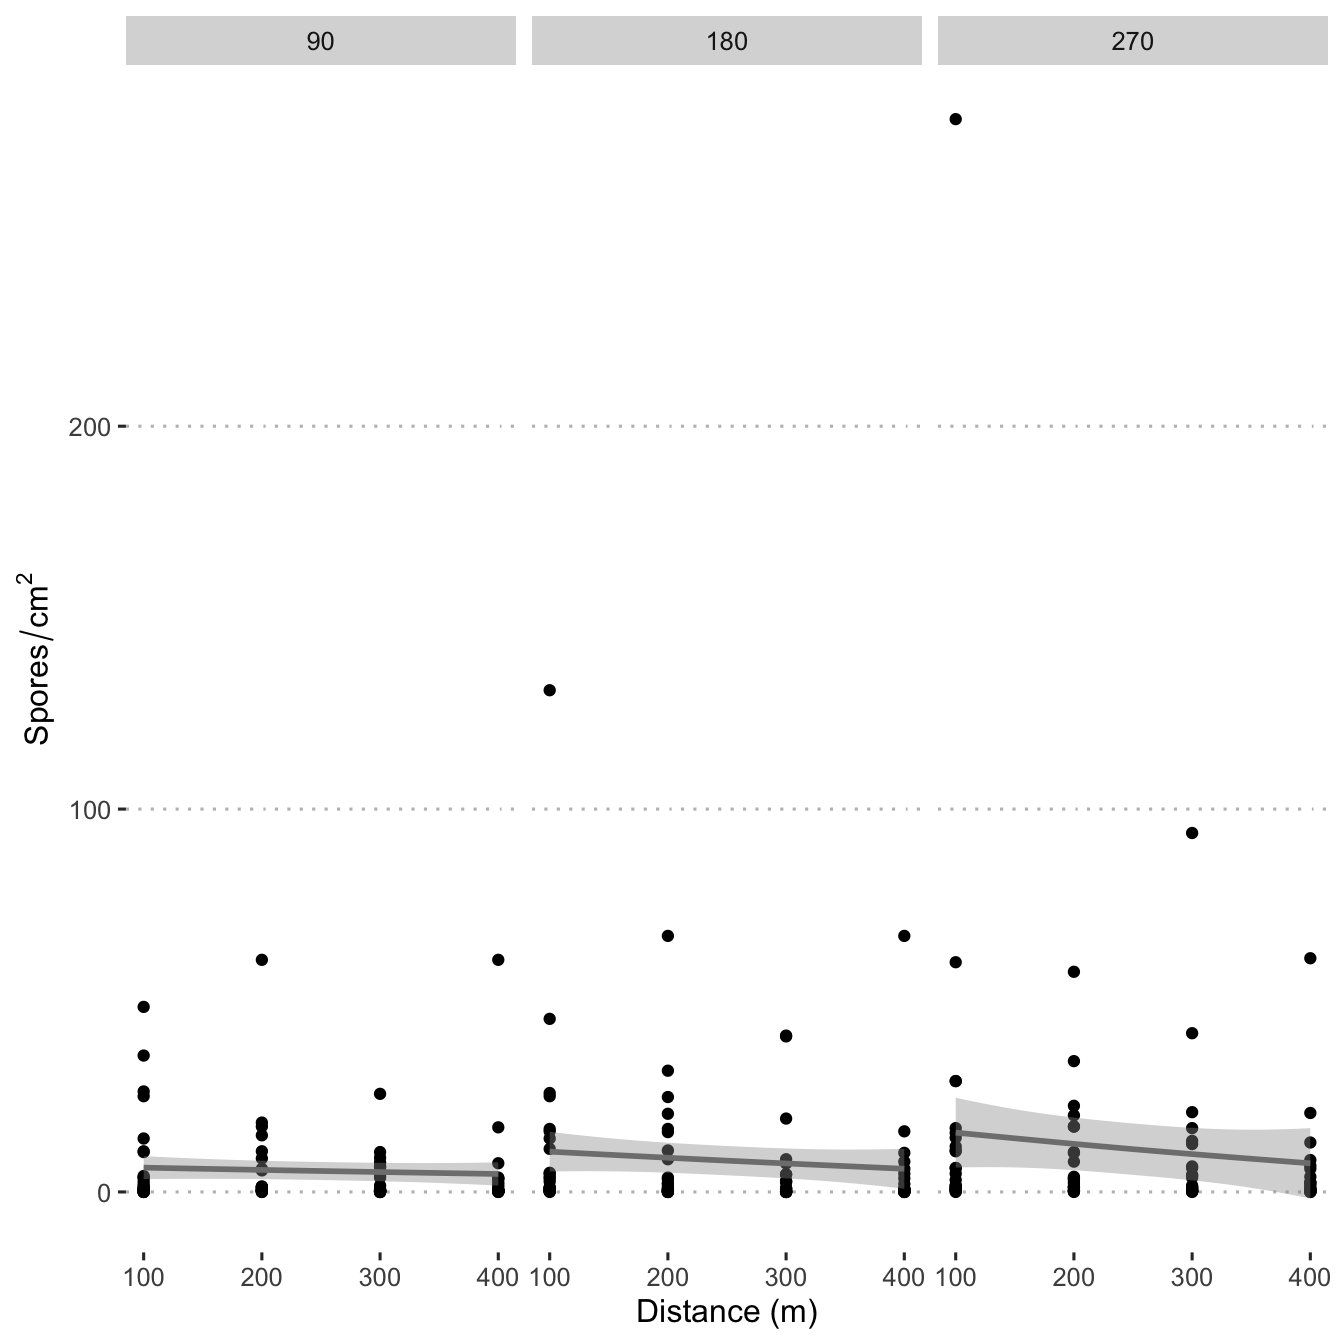
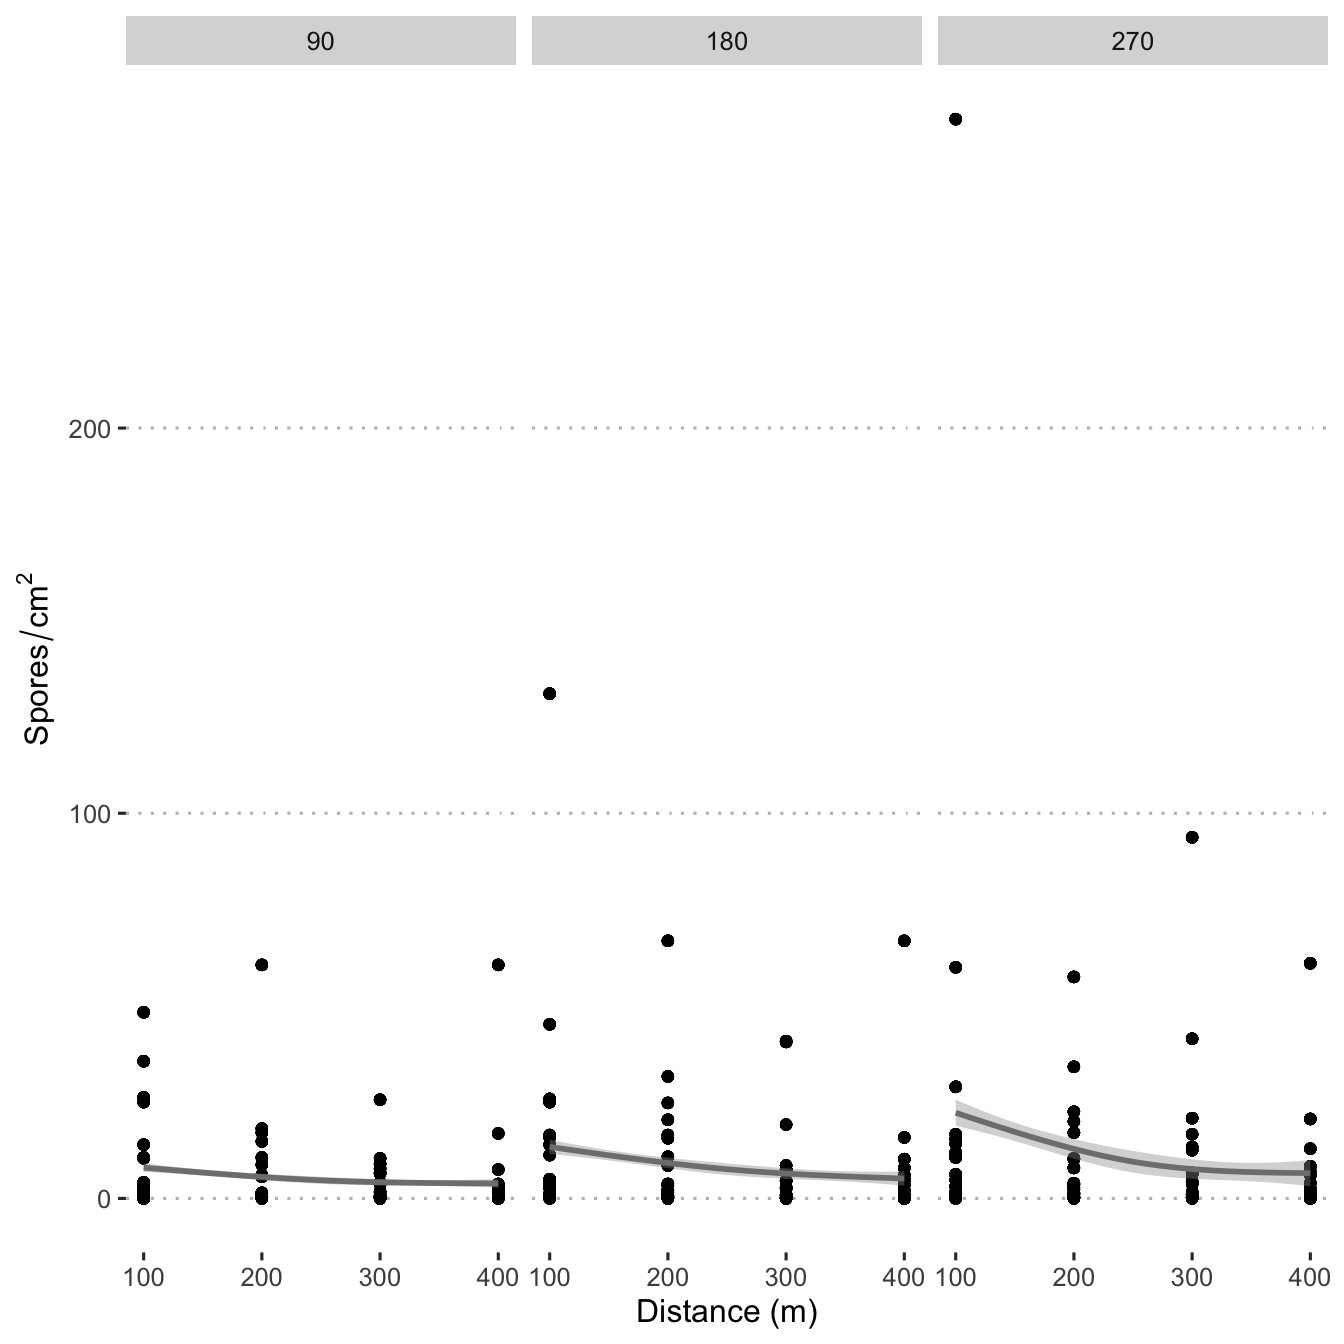
Add SDP data and visualise it

diff --git a/data_viz.html b/data_viz.html
@@ -13,7 +13,7 @@
 
 <title>Visualise data</title>
 
-<script src="site_libs/header-attrs-2.12/header-attrs.js"></script>
+<script src="site_libs/header-attrs-2.13/header-attrs.js"></script>
 <script src="site_libs/jquery-3.6.0/jquery-3.6.0.min.js"></script>
 <meta name="viewport" content="width=device-width, initial-scale=1" />
 <link href="site_libs/bootstrap-3.3.5/css/simplex.min.css" rel="stylesheet" />
@@ -414,24 +414,34 @@ central_top_legend &lt;- theme(
 <pre class="r"><code>load(here(&quot;data/dat.Rdata&quot;))
 load(here(&quot;data/mod_dat.Rdata&quot;))</code></pre>
 </div>
+<div id="plot-severely-damaged-pod-indices" class="section level2">
+<h2>Plot severely damaged pod indices</h2>
+<pre class="r"><code>ggplot(data = mod_dat) +
+  aes(y = field, x = SDP) +
+  geom_violin()</code></pre>
+<p><img src="data_viz_files/figure-html/sdp-incidence-1.png" width="672" /></p>
+</div>
 <div id="plot-spore-dispersal-density" class="section level2">
 <h2>Plot spore dispersal density</h2>
-<div id="plot-spore-densities" class="section level3">
-<h3>Plot spore densities</h3>
+<div id="plot-spore-count-densities" class="section level3">
+<h3>Plot spore count densities</h3>
 <p>Create a density plot of the observed spore dispersal values.</p>
 <pre class="r"><code>ggplot(mod_dat, aes(y = spore_cm2)) +
   geom_density()</code></pre>
 <p><img src="data_viz_files/figure-html/spore-kernel-density-1.png" width="672" /></p>
 <p>Create a scatter plot and use <code>stat_smooth()</code> to fit a line.</p>
-<pre class="r"><code>spore_dot_density_by_distance &lt;- mod_dat %&gt;% 
+<pre class="r"><code>spore_dot_density_by_distance &lt;- mod_dat %&gt;%
   ggplot(aes(x = distance_m, y = spore_cm2)) +
   geom_point() +
   scale_fill_viridis_c() +
-    geom_smooth(col=&quot;grey50&quot;, method = &quot;gam&quot;, 
-                formula = y ~ s(x, bs = &quot;cs&quot;, k = 3)) +
-  labs(y = expression(Spores/cm^{2}),
-       x = &quot;Distance (m)&quot;) +
-  facet_grid( .~ time_slice)
+  geom_smooth(col = &quot;grey50&quot;,
+              method = &quot;gam&quot;,
+              formula = y ~ s(x, bs = &quot;cs&quot;, k = 3)) +
+  labs(y = expression(Spores / cm ^ {
+    2
+  }),
+  x = &quot;Distance (m)&quot;) +
+  facet_grid(. ~ time_slice)
 spore_dot_density_by_distance</code></pre>
 <p><img src="data_viz_files/figure-html/spore-dot-density-by-distance-1.png" width="672" /></p>
 <p>Create a violin plot showing spore distribution at the four distances.</p>

diff --git a/data_import.html b/data_import.html
@@ -13,7 +13,7 @@
 
 <title>Import data</title>
 
-<script src="site_libs/header-attrs-2.12/header-attrs.js"></script>
+<script src="site_libs/header-attrs-2.13/header-attrs.js"></script>
 <script src="site_libs/jquery-3.6.0/jquery-3.6.0.min.js"></script>
 <meta name="viewport" content="width=device-width, initial-scale=1" />
 <link href="site_libs/bootstrap-3.3.5/css/simplex.min.css" rel="stylesheet" />
@@ -404,8 +404,8 @@ source(here(&quot;./R/circular_averaging.R&quot;))</code></pre>
 </div>
 <div id="import-compiled-dataset-from-local-files." class="section level2">
 <h2>Import compiled dataset from local files.</h2>
-<div id="spore-data" class="section level3">
-<h3>Spore data</h3>
+<div id="spore-count-data" class="section level3">
+<h3>Spore count data</h3>
 <p>Import spore trap data and inspect.</p>
 <pre class="r"><code>spore_data &lt;- read_csv(
   here(&quot;data/spore_data.csv&quot;),
@@ -433,6 +433,12 @@ spore_data</code></pre>
 ##  9 1     N                 300      270     0    
 ## 10 1     N                 400       90     0.208
 ## # … with 278 more rows</code></pre>
+</div>
+<div id="pod-damage-data" class="section level3">
+<h3>Pod damage data</h3>
+<p>Import smut ball incidence data used to calculate severely damaged pods (SDP).</p>
+<pre class="r"><code>sdp_dat &lt;- read_csv(here(&quot;data/sdp_data.csv&quot;),
+                     col_types = list(field = col_factor()))</code></pre>
 </div>
 <div id="weather-data" class="section level3">
 <h3>Weather data</h3>
@@ -635,7 +641,7 @@ meteo_data &lt;-
   summarize(rh = mean(rel_hum), 
             temp = mean(temp),
             wind_speed = mean(wind_speed), 
-            wind_degrees = circular.averaging(wind_degrees))  </code></pre>
+            wind_degrees = circular.averaging(wind_degrees))</code></pre>
 </div>
 </div>
 </div>
@@ -671,6 +677,9 @@ mod_dat</code></pre>
 ## 10 1             90    65  18.9       1.49         76.2 W                 200
 ## # … with 278 more rows, and 5 more variables: spore_cm2 &lt;dbl&gt;,
 ## #   trap_degrees &lt;dbl&gt;, degree_dif &lt;dbl&gt;, x &lt;dbl&gt;, y &lt;dbl&gt;</code></pre>
+<p>`</p>
+<p>Add smut density to the data object for model fitting.</p>
+<pre class="r"><code>mod_dat &lt;- left_join(mod_dat, sdp_dat)</code></pre>
 <p>Save data object for fitting models.</p>
 <pre class="r"><code>save(mod_dat, file = here(&quot;data/mod_dat.Rdata&quot;))</code></pre>
 </div>

diff --git a/site_libs/header-attrs-2.13/header-attrs.js b/site_libs/header-attrs-2.13/header-attrs.js
@@ -1,0 +1,12 @@
+// Pandoc 2.9 adds attributes on both header and div. We remove the former (to
+// be compatible with the behavior of Pandoc < 2.8).
+document.addEventListener('DOMContentLoaded', function(e) {
+  var hs = document.querySelectorAll("div.section[class*='level'] > :first-child");
+  var i, h, a;
+  for (i = 0; i < hs.length; i++) {
+    h = hs[i];
+    if (!/^h[1-6]$/i.test(h.tagName)) continue;  // it should be a header h1-h6
+    a = h.attributes;
+    while (a.length > 0) h.removeAttribute(a[0].name);
+  }
+});
